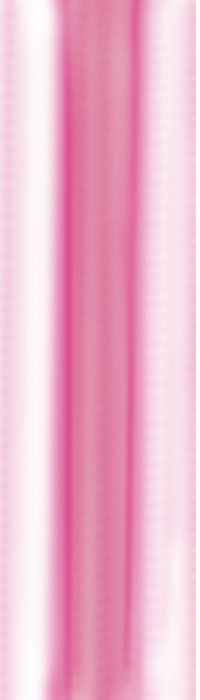
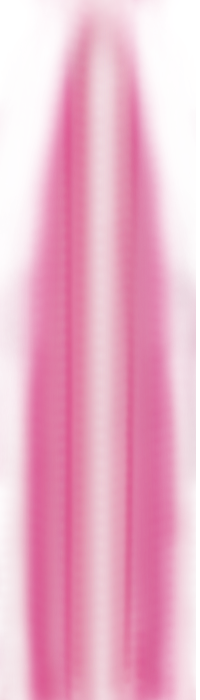
Босс научился умирать, анимироваться и, главное, убивать

diff --git a/main.py b/main.py
@@ -568,11 +568,6 @@ while running:
             menu()
 
         screen = pygame.display.set_mode((WIDTH * 1.2, HEIGHT * 1.2))
-        game.all_sprites = pygame.sprite.Group()
-        game.mobs = pygame.sprite.Group()
-        game.bullets = pygame.sprite.Group()
-        game.enemies = pygame.sprite.Group()
-        game.enemy_bullets = pygame.sprite.Group()
         player = Player(game.all_sprites, game.bullets, music_manager)
         game.all_sprites.add(player)
         game_over = False
@@ -613,7 +608,7 @@ while running:
         game.spawn_rate *= 0.9
         spawn_manager.spawn_enemy(game)
 
-    if score >= 7000 and not spawn_manager.boss_here:
+    if score >= 500 and not spawn_manager.boss_here:
         spawn_manager.stop = True
         spawn_manager.boss_here = True
         spawn_manager.spawn_boss(game)
@@ -681,6 +676,79 @@ while running:
                 powerups.add(pov)
             spawn_manager.newmob(game)
 
+    # Проверка коллайда "БОСС - пуля"
+    hits = pygame.sprite.groupcollide(game.boss, game.bullets, False, True, pygame.sprite.collide_circle)
+    # logger.debug(hits)
+    if hits:
+        for hit in list(hits.values())[0]:
+            hit_obj = [x for x in hits.keys()][0]
+
+            hit_obj.lives -= 1
+            if hit_obj.lives > 0:
+                random.choice(music_manager.expl_sounds).play()
+                expl_center = (hit.rect.center[0], hit.rect.center[1])
+                expl = Explosion(expl_center, 'sm')
+                game.all_sprites.add(expl)
+            else:
+                hit.kill()
+                score += 5000 + hit.radius  # Очки считаются от радиуса
+                random.choice(music_manager.expl_sounds).play()
+                expl = Explosion(hit.rect.center, 'lg')
+                game.all_sprites.add(expl)
+                if random.random() > 0.9 + player.power / 170 - 0.01:
+                    pov = Pow(hit.rect.center)
+                    game.all_sprites.add(pov)
+                    powerups.add(pov)
+                spawn_manager.newmob(game)
+            hit.kill()
+
+        # Проверка коллайда "БОСС - пуля"
+        hits = pygame.sprite.groupcollide(game.boss, game.bullets, False, True, pygame.sprite.collide_circle)
+        # logger.debug(hits)
+        if hits:
+            for hit in list(hits.values())[0]:
+                hit_obj = [x for x in hits.keys()][0]
+
+                hit_obj.lives -= 1
+                if hit_obj.lives > 0:
+                    random.choice(music_manager.expl_sounds).play()
+                    expl_center = (hit.rect.center[0], hit.rect.center[1])
+                    expl = Explosion(expl_center, 'sm')
+                    game.all_sprites.add(expl)
+                else:
+                    hit.kill()
+                    score += 5000 + hit.radius  # Очки считаются от радиуса
+                    random.choice(music_manager.expl_sounds).play()
+                    expl = Explosion(hit.rect.center, 'lg')
+                    game.all_sprites.add(expl)
+                    if random.random() > 0.9 + player.power / 170 - 0.01:
+                        pov = Pow(hit.rect.center)
+                        game.all_sprites.add(pov)
+                        powerups.add(pov)
+                    spawn_manager.newmob(game)
+                hit.kill()
+
+    # Проверка коллайда "БОСС - метеорит"
+    hits = pygame.sprite.groupcollide(game.boss, game.mobs, False, True, pygame.sprite.collide_circle)
+    # logger.debug(hits)
+    if hits:
+        for hit in list(hits.values())[0]:
+            hit_obj = [x for x in hits.keys()][0]
+
+            hit_obj.lives -= 1
+            if hit_obj.lives > 0:
+                random.choice(music_manager.expl_sounds).play()
+                expl_center = (hit.rect.center[0], hit.rect.center[1])
+                expl = Explosion(expl_center, 'sm')
+                game.all_sprites.add(expl)
+            else:
+                hit.kill()
+                random.choice(music_manager.expl_sounds).play()
+                expl = Explosion(hit.rect.center, 'lg')
+                game.all_sprites.add(expl)
+            hit.kill()
+
+
     # Проверка коллайда "игрок - вражеская пуля"
     hits = pygame.sprite.spritecollide(player, game.enemy_bullets, True)
     for hit in hits:
@@ -697,6 +765,8 @@ while running:
             music_manager.fart_sound.play()
         if player.lives == 0:
             player.alive = False
+
+        #Вжух от босса
     hits = pygame.sprite.spritecollide(player, game.boss_bullets, True)
     for hit in hits:
         player.shield -= 10000

diff --git a/enemy.py b/enemy.py
@@ -1,7 +1,7 @@
 import pygame
 import random
 from bullet import EnemyBullet, BossBullet
-from images import enemy_img, boss_img
+from images import enemy_img, boss_img, boss_shoot
 from settings import WIDTH
 
 
@@ -11,14 +11,15 @@ class Enemy(pygame.sprite.Sprite):
         self.image = enemy_img
         self.image = pygame.transform.scale(self.image, (50, 38))
         self.rect = self.image.get_rect()
-        self.radius = 20
+        self.radius = 80
 
         self.rect.x = random.randrange(WIDTH - self.rect.width)
         self.rect.y = random.randrange(-100, -40)
         self.speedy = random.randrange(1, 8)
         self.speedx = random.randrange(2, 4)
 
-        self.shoot_delay = 400
+        self.shoot_delay = 500
+        self.shoot_anim_delay = 200
         self.last_shot = pygame.time.get_ticks()
         self.lives = 10
 
@@ -48,7 +49,7 @@ class Boss(pygame.sprite.Sprite):
         self.image = boss_img
         self.image = pygame.transform.scale(self.image, (200, 200))
         self.rect = self.image.get_rect()
-        self.radius = 100
+        self.radius = 50
 
         self.rect.x = 240
         self.rect.y = 100
@@ -57,17 +58,21 @@ class Boss(pygame.sprite.Sprite):
         self.lives = 1000
 
         self.shoot_delay = 5000
+        self.current_shot = 0
         self.last_shot = pygame.time.get_ticks()
+        self.last_change_img = pygame.time.get_ticks()
+        self.charging = False
 
         self.all_sprites = all_sprites
         self.boss_bullets = boss_bullets
 
     def update(self):
         self.shoot()
+        self.charge()
         self.rect.x += self.speedx
         self.rect.y += self.speedy
 
-        if self.rect.top <= 10 or self.rect.bottom >= 300:
+        if self.rect.top <= 10 or self.rect.bottom >= 400:
             self.speedy *= -1
         if self.rect.right > WIDTH or self.rect.left < 0:
             self.speedx *= -1
@@ -75,11 +80,30 @@ class Boss(pygame.sprite.Sprite):
 
     def shoot(self):
         now = pygame.time.get_ticks()
+
+
+
         if now - self.last_shot > self.shoot_delay:
             self.last_shot = now
-            boss_bullet = BossBullet(self.rect.centerx + 9, self.rect.bottom - 55)
-            laser = BossBullet(self.rect.centerx + 9, self.rect.bottom - 55)
+            boss_bullet = BossBullet(self.rect.centerx + 5, self.rect.bottom - 70)
+            laser = BossBullet(self.rect.centerx + 5, self.rect.bottom - 70)
             self.all_sprites.add(boss_bullet, laser)
             self.boss_bullets.add(boss_bullet)
 
+    def charge(self):
+        now = pygame.time.get_ticks()
+        if now - self.last_change_img > 50 and self.charging:
+
+            self.current_shot = (self.current_shot + 1) % 11
+            self.image = boss_shoot[self.current_shot]
+            self.image = pygame.transform.scale(self.image, (200, 200))
+            self.last_change_img = now
+            print("changed image", self.current_shot)
+        self.charging = False
+        if now - self.last_shot > self.shoot_delay - 650:
+            self.charging = True
+        if self.charging == False:
+            self.image = boss_shoot[0]
+            self.current_shot = 0
+            self.image = pygame.transform.scale(self.image, (200, 200))
         ########################################################

diff --git a/player.py b/player.py
@@ -1,7 +1,7 @@
 import pygame
 import os
 from settings import HEIGHT, WIDTH, DATA_DIR, IMG_DIR
-from bullet import Bullet
+from bullet import PlayerBullet
 import sys
 
 config_name = 'myapp.cfg'
@@ -100,22 +100,22 @@ class Player(pygame.sprite.Sprite):
         if now - self.last_shot > self.shoot_delay:
             self.last_shot = now
             if self.power == 1:
-                bullet = Bullet(self.rect.centerx, self.rect.top, 'lg')
+                bullet = PlayerBullet(self.rect.centerx, self.rect.top, 'lg')
                 self.all_sprites.add(bullet)
                 self.bullets.add(bullet)
                 self.music_manager.shoot_sound.play()
             if self.power == 2:
-                bullet1 = Bullet(self.rect.left, self.rect.centery, 'lg')
-                bullet2 = Bullet(self.rect.right, self.rect.centery, 'lg')
+                bullet1 = PlayerBullet(self.rect.left, self.rect.centery, 'lg')
+                bullet2 = PlayerBullet(self.rect.right, self.rect.centery, 'lg')
                 self.all_sprites.add(bullet1)
                 self.all_sprites.add(bullet2)
                 self.bullets.add(bullet1)
                 self.bullets.add(bullet2)
                 self.music_manager.shoot_sound.play()
             if self.power == 3:
-                bullet1 = Bullet(self.rect.centerx, self.rect.top, 'lg')
-                bullet2 = Bullet(self.rect.right, self.rect.centery, 'sm')
-                bullet3 = Bullet(self.rect.left, self.rect.centery, 'sm')
+                bullet1 = PlayerBullet(self.rect.centerx, self.rect.top, 'lg')
+                bullet2 = PlayerBullet(self.rect.right, self.rect.centery, 'sm')
+                bullet3 = PlayerBullet(self.rect.left, self.rect.centery, 'sm')
                 self.all_sprites.add(bullet1)
                 self.all_sprites.add(bullet2)
                 self.all_sprites.add(bullet3)
@@ -124,10 +124,10 @@ class Player(pygame.sprite.Sprite):
                 self.bullets.add(bullet3)
                 self.music_manager.shoot_sound.play()
             if self.power >= 4:
-                bullet1 = Bullet(self.rect.right + 5, self.rect.centery, 'sm')
-                bullet2 = Bullet(self.rect.left - 5, self.rect.centery, 'sm')
-                bullet3 = Bullet(self.rect.right - 10, self.rect.top, 'lg')
-                bullet4 = Bullet(self.rect.left + 10, self.rect.top, 'lg')
+                bullet1 = PlayerBullet(self.rect.right + 5, self.rect.centery, 'sm')
+                bullet2 = PlayerBullet(self.rect.left - 5, self.rect.centery, 'sm')
+                bullet3 = PlayerBullet(self.rect.right - 10, self.rect.top, 'lg')
+                bullet4 = PlayerBullet(self.rect.left + 10, self.rect.top, 'lg')
                 self.all_sprites.add(bullet1)
                 self.all_sprites.add(bullet2)
                 self.all_sprites.add(bullet3)

diff --git a/bullet.py b/bullet.py
@@ -3,7 +3,8 @@ from images import enemy_bullet_img, bullet_images, boss_bullet_anim
 from settings import HEIGHT
 
 
-class Bullet(pygame.sprite.Sprite):
+class PlayerBullet(pygame.sprite.Sprite):
+    """Класс пуль игрока"""
     def __init__(self, x, y, size):
         pygame.sprite.Sprite.__init__(self)
         self.image = bullet_images[size]
@@ -19,8 +20,8 @@ class Bullet(pygame.sprite.Sprite):
             self.kill()
 
 
-# Класс пуль врага
 class EnemyBullet(pygame.sprite.Sprite):
+    """Класс пуль врагов"""
     def __init__(self, x, y):
         pygame.sprite.Sprite.__init__(self)
         self.image = enemy_bullet_img
@@ -37,6 +38,7 @@ class EnemyBullet(pygame.sprite.Sprite):
 
 
 class BossBullet(pygame.sprite.Sprite):
+    """Класс пуль Босса"""
     def __init__(self, x, y):
         pygame.sprite.Sprite.__init__(self)
         self.image = boss_bullet_anim[0]

diff --git a/images.py b/images.py
@@ -21,6 +21,15 @@ for img in meteor_list:
 enemy_img = pygame.image.load(os.path.join(IMG_DIR, "playerShip1_red.png"))
 boss_img = pygame.image.load(os.path.join(IMG_DIR, "BOSS 1.png"))
 
+boss_shoot = []
+for i in range(11):
+    filename = ''
+    filename = 'BOSS {}.png'.format(i+1)
+    img = pygame.image.load(os.path.join(IMG_DIR, filename))
+    img.set_colorkey(BLACK)
+    boss_shoot.append(img)
+
+
 explosion_anim = {
     'lg': [],
     'sm': [],
@@ -41,7 +50,7 @@ for i in range(9):
     explosion_anim['player'].append(img)
 
 boss_bullet_anim = []
-for i in range(4):
+for i in range(5):
     filename = ''
     filename = 'Lazer{}.png'.format(i+1)
     img = pygame.image.load(os.path.join(IMG_DIR, filename))

diff --git a/game.py b/game.py
@@ -27,7 +27,7 @@ class Game:
         self.enemies = pygame.sprite.Group()
         self.enemy_bullets = pygame.sprite.Group()
         self.boss_bullets = pygame.sprite.Group()
-
+        self.boss = pygame.sprite.Group()
     def entity_spawn(self):
         """Добавляет все группы спрайтов в all_sprites"""
 

diff --git a/spawn_manager.py b/spawn_manager.py
@@ -27,4 +27,5 @@ class SpawnManager:
     def spawn_boss(self, game):
         m = Boss(game.all_sprites, game.boss_bullets)
         game.all_sprites.add(m)
+        game.boss.add(m)
 
